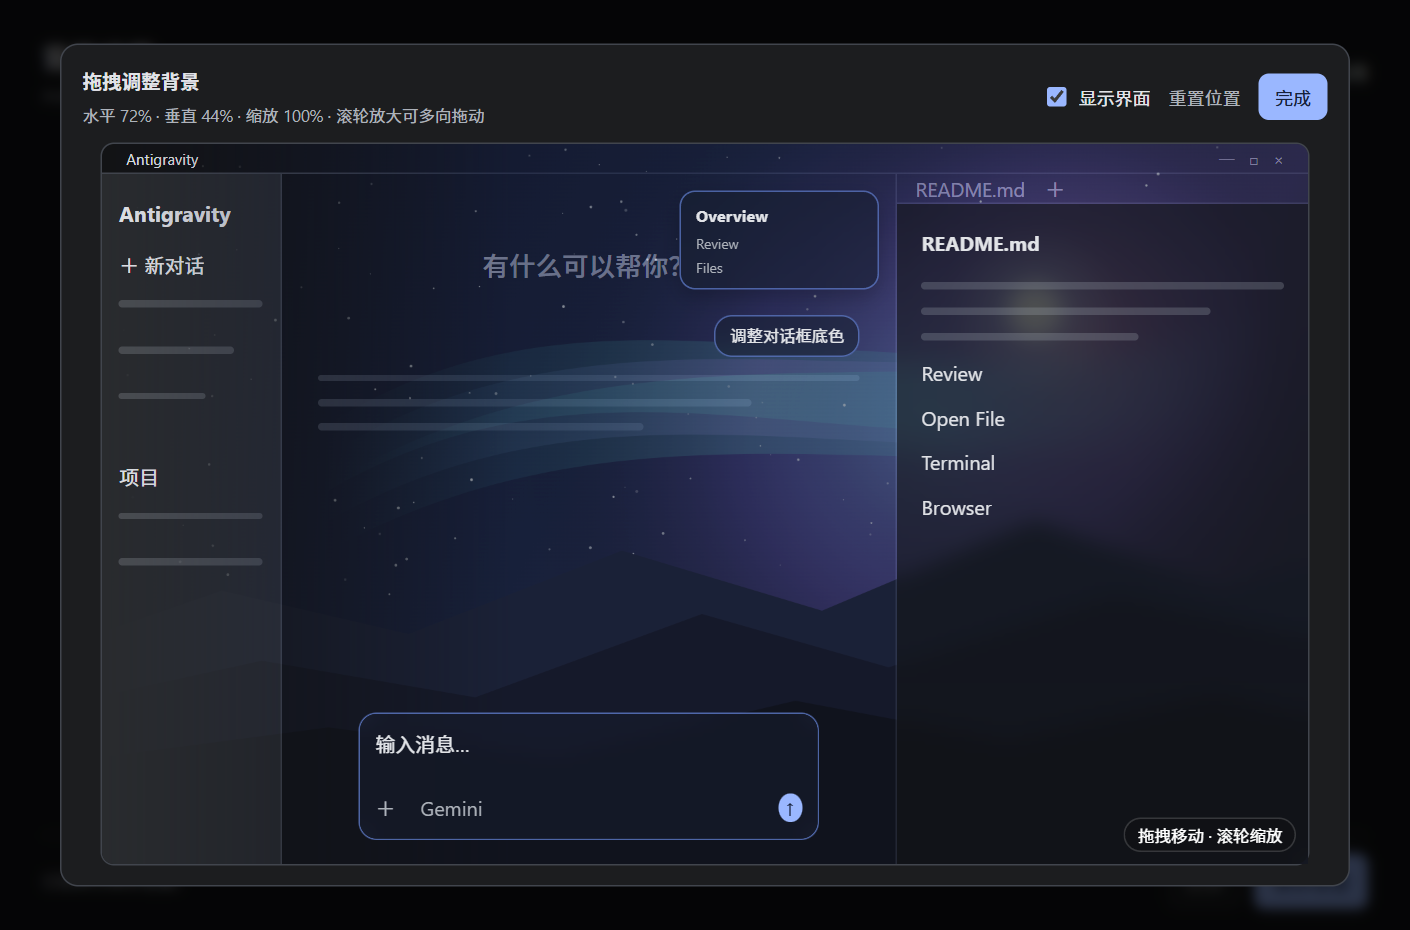
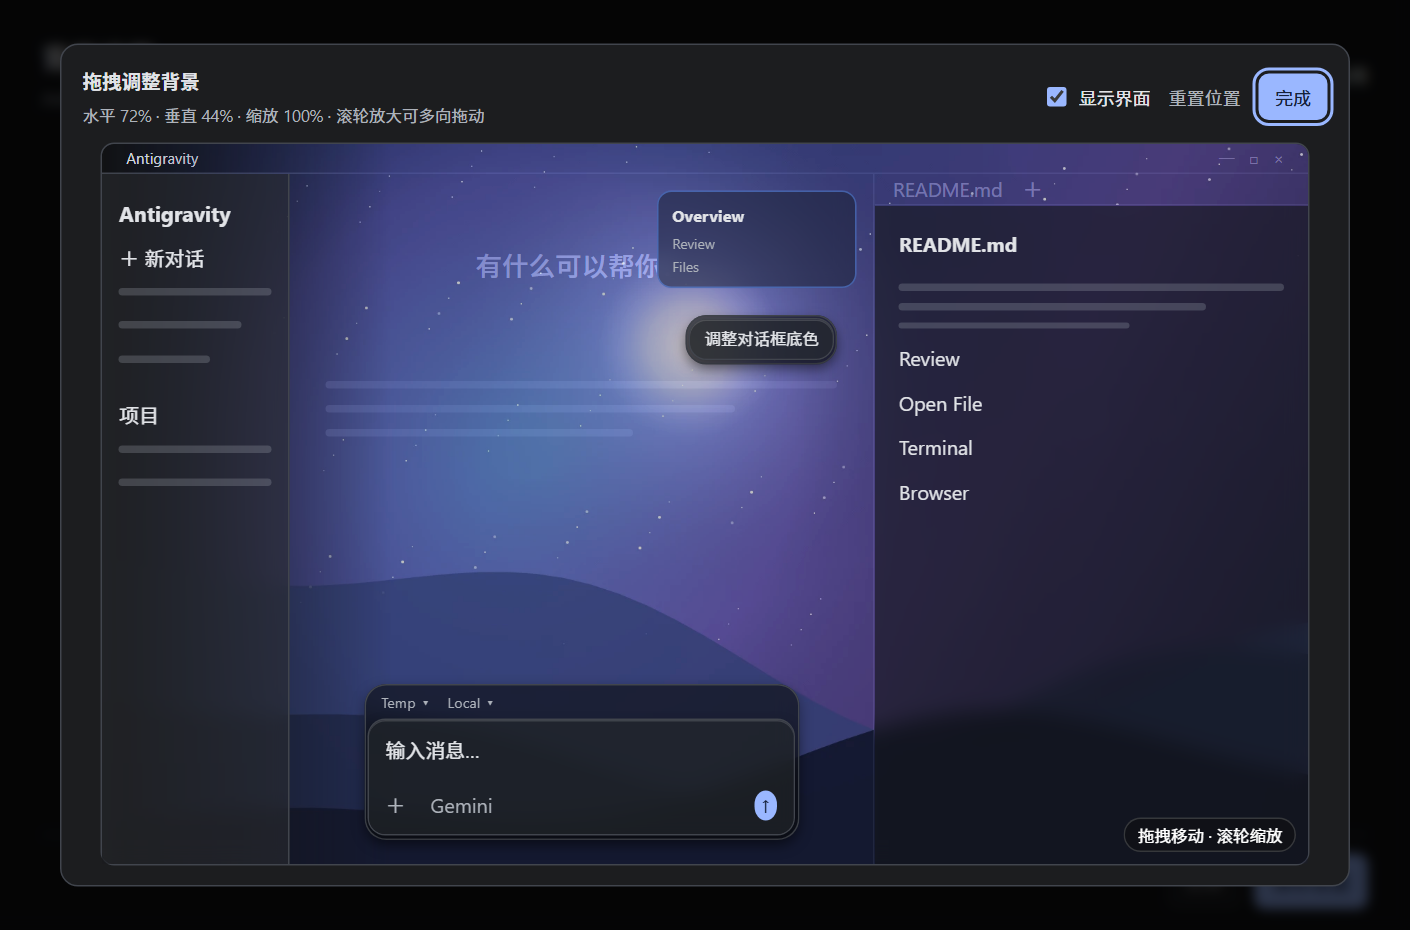
docs(readme): 更新仓库主页说明与最新效果展示截图

diff --git a/README.md b/README.md
@@ -17,7 +17,7 @@
 
 ---
 
-**Antigravity Background**（插件名 `antigravity-ui`）通过 Antigravity 官方 Sidecar 扩展机制在右侧辅助面板提供实时可视化设置界面，支持自定义整窗壁纸、多种裁剪/平铺布局、交互式拖拽预览、**侧边栏 / 对话框 / Overview 面板 / 输入框**的独立透明度与毛玻璃模糊定制，以及深浅主题自适应与双保险跨重启持久化。
+**Antigravity Background**（插件名 `antigravity-ui`）通过 Antigravity 官方 Sidecar 扩展机制在右侧辅助面板提供实时可视化设置界面，支持自定义整窗壁纸、多种裁剪/平铺布局、交互式拖拽预览、**左侧边栏 / 右侧面板 / Overview 面板**透明与毛玻璃定制、**输入框与对话框**同步的原版双层立体分层级感与外内配色，以及深浅主题自适应与双保险跨重启持久化。
 
 ## 效果展示
 
@@ -34,12 +34,12 @@
     <td width="50%" align="center">
       <img src="docs/images/settings-panel-dark.png" alt="深色主题设置面板" />
       <br />
-      <sub><b>深色主题设置页</b> · 全部 7 组折叠卡（含 Overview 联动同步）</sub>
+      <sub><b>深色主题设置页</b> · 全部 7 组折叠卡（含输入框与对话框绑定 &amp; 独立 Overview 面板）</sub>
     </td>
     <td width="50%" align="center">
       <img src="docs/images/settings-panel-light.png" alt="浅色主题设置面板" />
       <br />
-      <sub><b>浅色主题设置页</b> · 取消同步后独立切换「对话框 / Overview 面板」配色</sub>
+      <sub><b>浅色主题设置页</b> · 「左侧边栏」「右侧面板」「输入框与对话框」「Overview 面板」各自独立配置</sub>
     </td>
   </tr>
   <tr>
@@ -60,10 +60,12 @@
 | **壁纸与布局** | 支持本地 **PNG / JPG / WebP**，最长边自动压缩至 `2560px` 并保留透明通道；支持 **填充 / 拉伸 / 适应 / 平铺** 四种模式 | 填充 · 拉伸 · 适应（默认） · 平铺 |
 | **精细参数调节** | 水平位置（`0–100%`）、垂直位置（`0–100%`）、缩放（`20–220%`）、模糊（`0–30 px`）、不透明度（`0–100%`）、亮度（`30–140%`）、左侧渐隐（`0–95%`） | 修改即刻实时预览；图片与配置保存在 Sidecar 数据目录 |
 | **弹窗拖拽预览** | 顶部「图片预览」按真实 Antigravity 窗口宽高比与分栏比例等比渲染（只读防误触）；点击「壁纸调整 → 打开预览」弹出交互画布，支持自由拖拽与滚轮缩放 | 非平铺模式缩放实效下限 `100%`，位移按可移动余量贴边限位，防止露出未覆盖留白 |
-| **侧边栏表面** | 单独控制「显示底色」、底色不透明度（`0–100%`）与背景模糊（`0–30 px`）；底色仅覆盖标签栏下方内容区，顶部标签栏与主区共用壁纸 | 关闭「显示底色」即完全透明；嵌入式设置页自动消除双重透明度叠加 |
-| **对话框与面板** | 单卡整合，默认开启 **「同步 Overview 面板」** 统一微调；取消同步后可切换「对话框」与「Overview 面板」独立设置外圈/内部 hex 颜色、不透明度与模糊 | 覆盖全用户气泡变体及 4 类 Overview 面板宿主，兼容长对话滚动模糊 |
-| **输入框表面** | 独立配置「显示底色」、外圈/内部 hex 颜色、不透明度与背景模糊 | 统一覆盖普通会话、`HOME_VIEW` 起始页及顶部工具条变体 |
+| **左侧边栏表面** | 独立控制「显示底色」、底色不透明度（`0–100%`）与背景模糊（`0–30 px`） | 单层平滑覆盖左侧栏，透明化内部吸顶 `.bg-sidebar` 色块与悬停渐变，消除顶部内阴影接缝 |
+| **右侧面板表面** | 独立控制「显示底色」、底色不透明度（`0–100%`）与背景模糊（`0–30 px`） | 单层覆盖标签栏下方 `[data-side-panel-body]`（兼容 `[data-has-browser-hole]`），保持顶部文件标签条与主界面齐平 |
+| **输入框与对话框** | 单卡绑定整合，共享控制「原版分层级感」「显示底色」、外圈/内部 hex 颜色、不透明度与模糊 | 同时作用于普通/起始页输入框（含顶部工具条）与全部用户消息气泡，兼容长对话滚动模糊与纯透玻璃边框 |
+| **Overview 面板** | 独立扁平控制卡：支持「显示底色」、外圈/内部 hex 颜色、底色不透明度与背景模糊 | 独立覆盖 4 类 Overview 面板宿主，从不与输入框/对话框同步，保持轻量扁平与高交互层级 |
 | **主题与多窗口同步** | 设置页支持「跟随应用 / 深色 / 浅色」并随配置保存；多窗口实时发现、同源多标签页 `BroadcastChannel` 联动、磁盘 `settings.json` 外部变更重载 | 实时预览保留于内存草稿；点击「保存设置」落盘，点击「还原」放弃未保存草稿 |
+| **在线检查与一键更新** | 顶部标题栏显示当前版本号、GitHub 仓库图标与 **「检查更新」** 按钮；自动识别 GitHub Release（ZIP + SHA-256 校验）、Tag / `main` 分支与 Atom 退路 | 安全归档解压、目录替换失败自动回滚，支持更新后一键热重载插件，打开面板时不主动发起联网请求 |
 
 ---
 
@@ -122,7 +124,7 @@ Antigravity 桌面端仅在开启本地环回调试端口（`--remote-debugging-
 
 ## 原生交互与兼容修复
 
-针对全窗壁纸层（`z-index: 1000`）与半透明内容区抬升后可能带来的原生界面兼容问题，渲染器（`version = 18 / revision = 21`）持续做了系统性适配：
+针对全窗壁纸层（`z-index: 1000`）与半透明内容区抬升后可能带来的原生界面兼容问题，渲染器（`version = 18 / revision = 23`）持续做了系统性适配：
 
 - **对话区与原生控件层级还原**：恢复左侧对话圆点进度条（`conversation-navigator`）点击跳转、主滚动条与回到底部按钮、`Ctrl+F` 查找栏、选中浮窗/批注弹框、底部终端上边缘拖拽调整高度、分栏拖拽手柄（`[data-split-sash]` / `[data-testid="tiling-splitter"]`）及侧栏收起 Peek 热区/窄窗抽屉交互。
 - **工作状态框浮动滚动条视口裁剪**：为宿主全局挂载到 `document.body` 的浮动滚动条（`body > [data-overlay-scrollbar-track]`）建立几何反查与祖先裁剪链，通过 `clip-path: inset(...)` 限制其严格在 `[data-testid="autoscroll-viewport"]` 等容器视口内渲染与响应点击，杜绝长工作流状态框滚出会话区域时遮挡顶部标题栏、会话头或底部输入框。
@@ -158,10 +160,11 @@ Antigravity 桌面端仅在开启本地环回调试端口（`--remote-debugging-
 <details>
 <summary><b>4. 如何运行内置回归测试？</b></summary>
 
-项目提供无头 Chrome + 隔离 Sidecar 的完整端到端回归测试套件（覆盖表面渲染、拖拽边界保护、多窗/多面板同步、原生控件点击命中、浮动滚动条视口裁剪及 `app.asar`/快捷方式持久化校验）：
+项目提供无头 Chrome + 隔离 Sidecar 的完整端到端回归测试套件（覆盖表面渲染、拖拽边界保护、多窗/多面板同步、原生控件点击命中、浮动滚动条视口裁剪、`app.asar`/快捷方式持久化，以及 GitHub 在线更新安全归档与回滚校验）：
 
 ```powershell
 node tests/background-rendering.mjs
+node tests/updater.mjs
 ```
 
 </details>
@@ -182,20 +185,23 @@ antigravity-UI/
 │   └── persistence.cjs             # app.asar 自启开关与快捷方式备份/修复共享模块
 ├── sidecars/panel/
 │   ├── sidecar.json                # Sidecar 注册配置（右侧扩展面板）
-│   ├── main.mjs                    # Sidecar HTTP 服务与设置/快捷方式修复 API
+│   ├── main.mjs                    # Sidecar HTTP 服务与设置/更新/快捷方式修复 API
 │   ├── runtime.mjs                 # CDP 窗口发现、连接复用与健康状态检测
 │   ├── renderer.mjs                # 宿主窗口壁纸注入、层级适配与浮动滚动条裁剪
 │   ├── store.mjs                   # 原子写入与 mtime 外部变更重载存储
+│   ├── updater.mjs                 # GitHub Release/Tag/main 更新检查、校验与热重载
+│   ├── archive.mjs                 # 安全的 ZIP / TAR.GZ 解压与运行时清单校验
 │   ├── sdk.mjs                     # Sidecar SDK 加载器
-│   ├── index.html                  # 设置页与拖拽预览弹窗 DOM
+│   ├── index.html                  # 设置页、拖拽预览弹窗与插件更新弹窗 DOM
 │   ├── styles.css                  # 设置页深浅主题与嵌入式样式
-│   └── app.js                      # 实时预览、BroadcastChannel 同步与交互控制
+│   └── app.js                      # 实时预览、BroadcastChannel 同步与更新/交互控制
 ├── docs/
-│   ├── adr/0001-live-preview.md    # 架构决策与演进记录（§1 – §13）
+│   ├── adr/0001-live-preview.md    # 架构决策与演进记录（§1 – §14）
 │   └── images/                     # README 展示截图
 ├── GLOSSARY.md                     # 核心术语说明
 └── tests/
-    └── background-rendering.mjs    # 隔离环境渲染、交互与持久化回归测试
+    ├── background-rendering.mjs    # 隔离环境渲染、交互与持久化回归测试
+    └── updater.mjs                 # 更新器归档安全、代理与端到端回归测试
 ```
 
 ---
